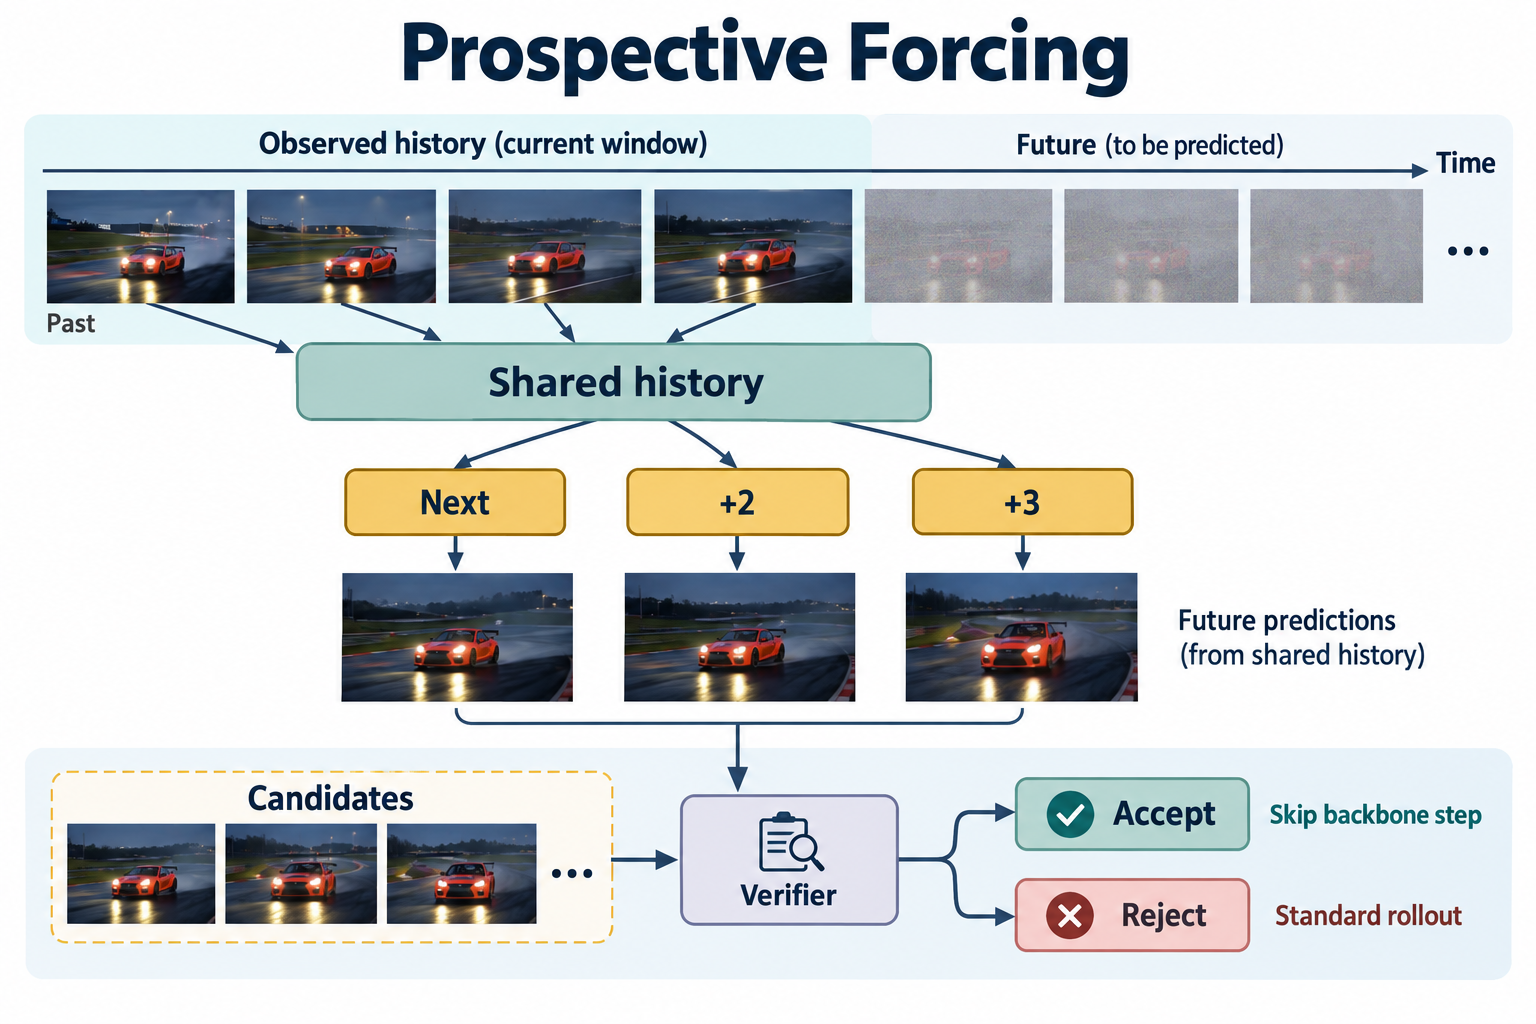
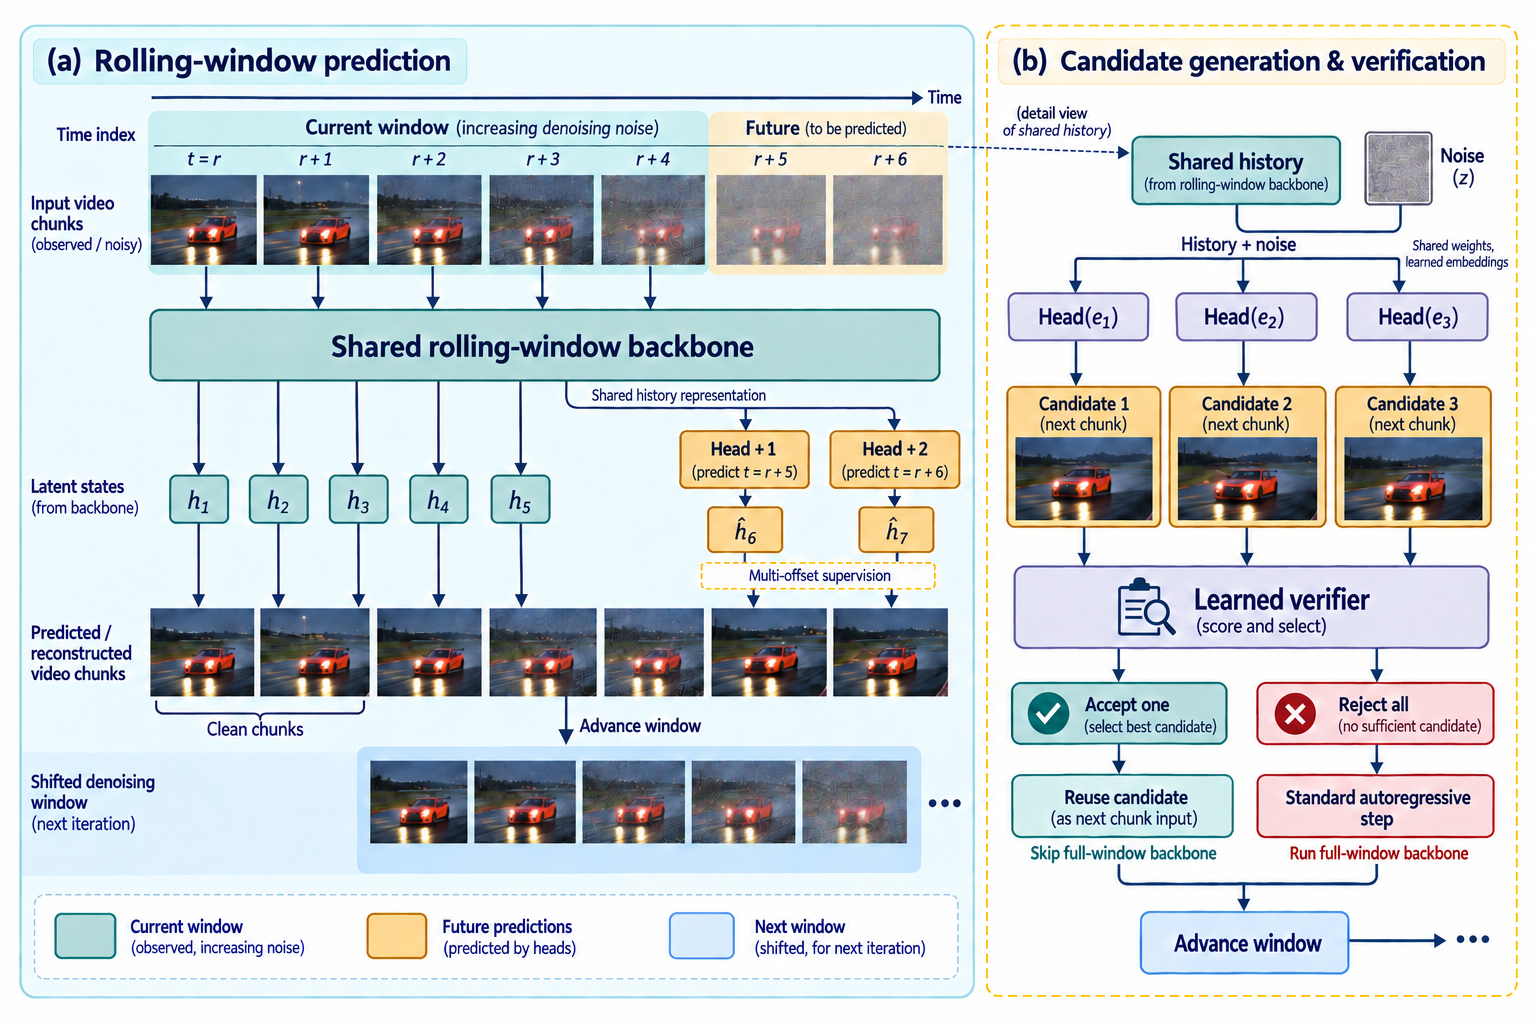
Prioritize NeurIPS paper and refine publication presentation

diff --git a/_includes/peiyuan-publications.html b/_includes/peiyuan-publications.html
@@ -9,19 +9,6 @@
   <ol class="minimal-publications__list">
     <li class="minimal-publication selected-pub" data-paper-kind="selected">
       <div class="minimal-publication__image">
-        <img src="{{ base_path }}/images/mova.png" alt="MoVA thumbnail">
-        <span class="minimal-publication__badge">ECCV</span>
-      </div>
-      <div class="minimal-publication__content">
-        <h3><a href="https://arxiv.org/abs/2607.00858">MoVA: Learning Asymmetric Dual Projections for Modular Long Video-Text Alignment</a></h3>
-        <p class="minimal-publication__authors"><strong>Peiyuan Zhu</strong>, Shaoan Xie, Zijian Li, Yifan Shen, Namrata Deka, Harsh Shrivastava, Guangyi Chen, Kun Zhang</p>
-        <p class="minimal-publication__venue"><em>European Conference on Computer Vision <strong>(ECCV)</strong>, 2026.</em></p>
-        <p class="minimal-publication__summary"><em>"MoVA learns dual asymmetric projections for long video-text alignment: a text-side projection adaptively selects frame-aware caption subspaces, while a video-side projection disentangles text-relevant visual concepts, preserving global cross-modal semantics and scaling naturally to long captions and videos."</em></p>
-      </div>
-    </li>
-
-    <li class="minimal-publication selected-pub" data-paper-kind="selected">
-      <div class="minimal-publication__image">
         <img src="{{ base_path }}/images/mev.png" alt="MEV thumbnail">
         <span class="minimal-publication__badge">NeurIPS</span>
       </div>
@@ -30,6 +17,19 @@
         <p class="minimal-publication__authors"><strong>Peiyuan Zhu</strong>, Shaoan Xie, Yifan Shen, Wen Tian, Zijian Li, Guangyi Chen, Kun Zhang</p>
         <p class="minimal-publication__venue"><em>Conference on Neural Information Processing Systems <strong>(NeurIPS)</strong>, 2026.</em></p>
         <p class="minimal-publication__summary"><em>"MEV is a multi-event video dataset for long-take video generation, providing real-world videos with precise temporal boundaries, fine-grained procedural annotations, and event-centric conditioning for more coherent multi-event generation."</em></p>
+      </div>
+    </li>
+
+    <li class="minimal-publication selected-pub" data-paper-kind="selected">
+      <div class="minimal-publication__image">
+        <img src="{{ base_path }}/images/mova.png" alt="MoVA thumbnail">
+        <span class="minimal-publication__badge">ECCV</span>
+      </div>
+      <div class="minimal-publication__content">
+        <h3><a href="https://arxiv.org/abs/2607.00858">MoVA: Learning Asymmetric Dual Projections for Modular Long Video-Text Alignment</a></h3>
+        <p class="minimal-publication__authors"><strong>Peiyuan Zhu</strong>, Shaoan Xie, Zijian Li, Yifan Shen, Namrata Deka, Harsh Shrivastava, Guangyi Chen, Kun Zhang</p>
+        <p class="minimal-publication__venue"><em>European Conference on Computer Vision <strong>(ECCV)</strong>, 2026.</em></p>
+        <p class="minimal-publication__summary"><em>"MoVA learns dual asymmetric projections for long video-text alignment: a text-side projection adaptively selects frame-aware caption subspaces, while a video-side projection disentangles text-relevant visual concepts, preserving global cross-modal semantics and scaling naturally to long captions and videos."</em></p>
       </div>
     </li>
 
@@ -53,7 +53,7 @@
       </div>
       <div class="minimal-publication__content">
         <h3><a href="#">DAVE: Learning Action Signals for Action-Centric Video Editing</a></h3>
-        <p class="minimal-publication__authors"><strong><a href="https://openreview.net/profile?id=~Peiyuan_Zhu2">Peiyuan Zhu</a></strong>, <a href="https://openreview.net/profile?id=~Shaoan_Xie4">Shaoan Xie</a>, Zichuan Liu, <a href="https://openreview.net/profile?id=~Yifan_Shen4">Yifan Shen</a>, Steven Ma, <a href="https://openreview.net/profile?id=~Zijian_Li1">Zijian Li</a>, <a href="https://openreview.net/profile?id=~Guangyi_Chen1">Guangyi Chen</a>, <a href="https://openreview.net/profile?id=~Kun_Zhang1">Kun Zhang</a></p>
+        <p class="minimal-publication__authors"><strong>Peiyuan Zhu</strong>, Shaoan Xie, Zichuan Liu, Yifan Shen, Steven Ma, Zijian Li, Guangyi Chen, Kun Zhang</p>
         <p class="minimal-publication__venue"><em>Under submission, 2026.</em></p>
         <p class="minimal-publication__summary"><em>"DAVE explores how a video can depict a new action while keeping its original subjects and setting. It extracts reusable motion cues from example clips, including generated ones, and uses them to guide changes in movement while limiting changes to unrelated visual details."</em></p>
       </div>
@@ -66,7 +66,7 @@
       </div>
       <div class="minimal-publication__content">
         <h3><a href="#">Directional Residual Adaptation for Versatile Conditional Video Generation</a></h3>
-        <p class="minimal-publication__authors"><strong><a href="https://openreview.net/profile?id=~Peiyuan_Zhu2">Peiyuan Zhu</a></strong>, <a href="https://openreview.net/profile?id=~Zijian_Li1">Zijian Li</a>, <a href="https://openreview.net/profile?id=~Yifan_Shen4">Yifan Shen</a>, <a href="https://openreview.net/profile?id=~Shaoan_Xie4">Shaoan Xie</a>, <a href="https://openreview.net/profile?id=~Guangyi_Chen1">Guangyi Chen</a>, <a href="https://openreview.net/profile?id=~Kun_Zhang1">Kun Zhang</a></p>
+        <p class="minimal-publication__authors"><strong>Peiyuan Zhu</strong>, Zijian Li, Yifan Shen, Shaoan Xie, Guangyi Chen, Kun Zhang</p>
         <p class="minimal-publication__venue"><em>Under submission, 2026.</em></p>
         <p class="minimal-publication__summary"><em>"This work steers video diffusion with an added correction that responds linearly to selected control inputs and adjusts its coefficients as sampling progresses. Applying this structure to the correction lets the underlying model retain its nonlinear behavior, supporting a range of conditional generation tasks."</em></p>
       </div>
@@ -74,12 +74,12 @@
 
     <li class="minimal-publication" data-paper-kind="all" hidden>
       <div class="minimal-publication__image">
-        <img src="{{ base_path }}/images/prospective-forcing.png" alt="Prospective Forcing overview with parallel future predictions and candidate verification">
+        <img src="{{ base_path }}/images/prospective-forcing.png?v=2" alt="Prospective Forcing rolling-window prediction with parallel future heads and candidate verification">
         <span class="minimal-publication__badge">Submission</span>
       </div>
       <div class="minimal-publication__content">
         <h3><a href="https://openreview.net/forum?id=f0tJfJBai7">Prospective Forcing: Learning to Look Ahead for Autoregressive Long Video Diffusion</a></h3>
-        <p class="minimal-publication__authors"><a href="https://openreview.net/profile?id=~Yifan_Shen4">Yifan Shen</a>, <a href="https://openreview.net/profile?id=~Yewei_Xia1">Yewei Xia</a>, <a href="https://openreview.net/profile?id=~Gongxu_Luo1">Gongxu Luo</a>, <strong><a href="https://openreview.net/profile?id=~Peiyuan_Zhu2">Peiyuan Zhu</a></strong>, <a href="https://openreview.net/profile?id=~Boyang_Sun1">Boyang Sun</a>, <a href="https://openreview.net/profile?id=~Zhenhao_Chen1">Zhenhao Chen</a>, <a href="https://openreview.net/profile?id=~Guangyi_Liu1">Guangyi Liu</a>, <a href="https://openreview.net/profile?id=~Guangyi_Chen1">Guangyi Chen</a>, <a href="https://openreview.net/profile?id=~Kun_Zhang1">Kun Zhang</a></p>
+        <p class="minimal-publication__authors">Yifan Shen, Yewei Xia, Gongxu Luo, <strong>Peiyuan Zhu</strong>, Boyang Sun, Zhenhao Chen, Guangyi Liu, Guangyi Chen, Kun Zhang</p>
         <p class="minimal-publication__venue"><em>Under submission, 2026.</em></p>
         <p class="minimal-publication__summary"><em>"Prospective Forcing gives an autoregressive video model practice anticipating several steps ahead. Parallel prediction heads make the stored history useful beyond the next chunk, while a verifier screens candidate continuations during sampling and falls back to ordinary generation when needed. Accepted proposals let the model bypass repeated backbone passes."</em></p>
       </div>
